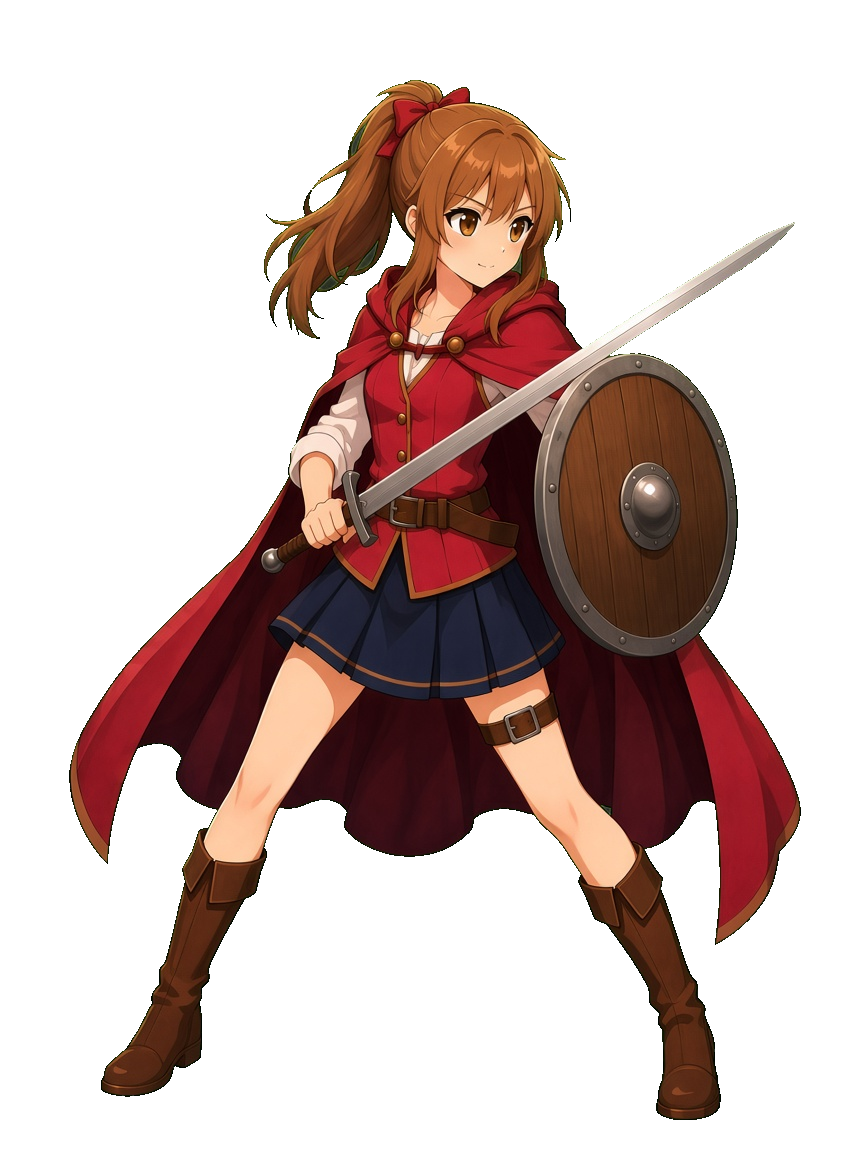
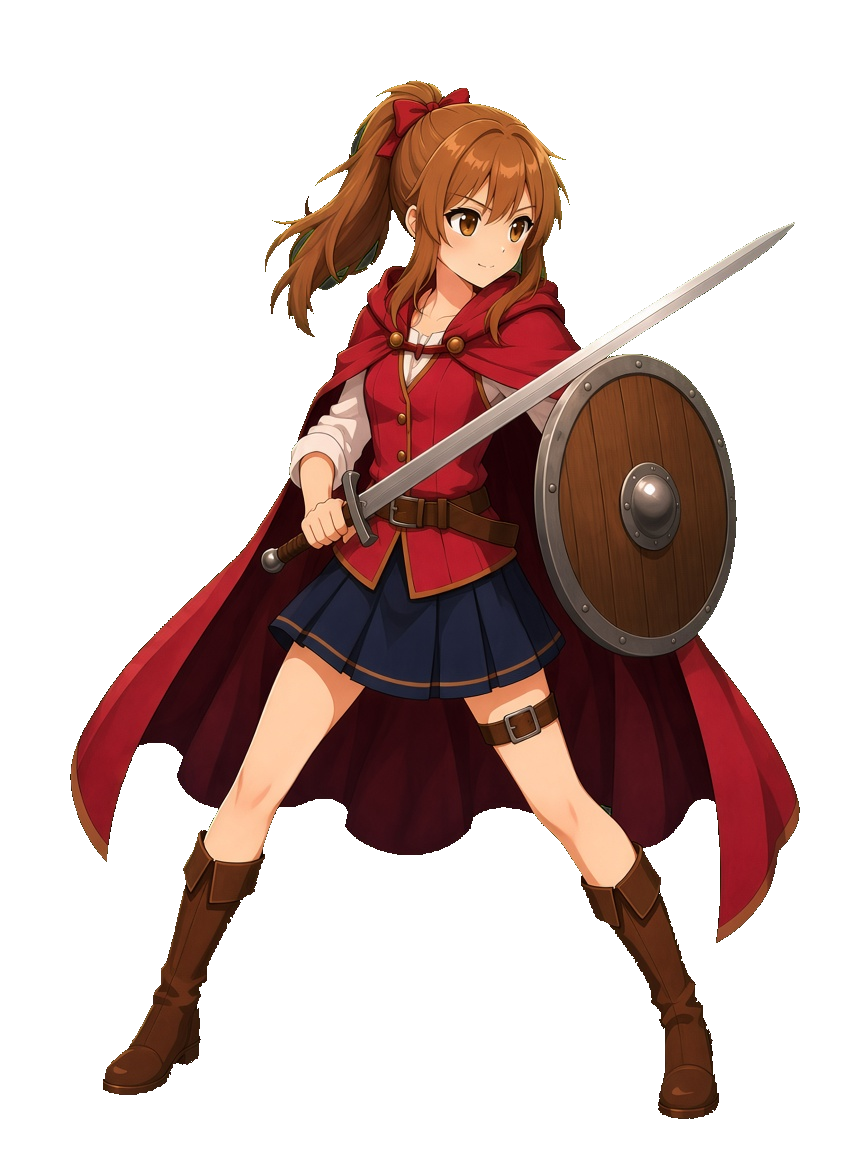
戦闘絵の髪まわりに残った緑を切り抜く

diff --git a/index.html b/index.html
@@ -4959,7 +4959,7 @@
         stand: "girl-front.png?v=10",
         chibi: "job-girl.png?v=5",
         action: "girl-action.jpg?v=3",
-        battle: "girl-battle.png?v=20",
+        battle: "girl-battle.png?v=21",
         battleRatio: "3 / 4",
         defeat: "girl-defeat.png?v=9",
         victory: "girl-victory.png?v=10",
@@ -8185,7 +8185,7 @@
             <h3>女の戦士</h3>
             <div class="ref-grid pose-grid">
               ${sheetFig("girl-front.png?v=10", "キャラデザ", "cut-ref")}
-              ${sheetFig("girl-battle.png?v=20", "戦闘", "cut-ref")}
+              ${sheetFig("girl-battle.png?v=21", "戦闘", "cut-ref")}
             </div>
             <div class="ref-grid">
               ${sheetFig("girl-defeat.png?v=9", "敗北", "land-ref", "wide-land")}
